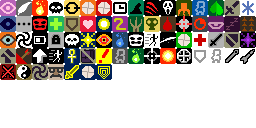
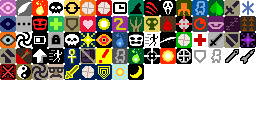
UI、天数、回合差、击杀、攻击延迟

Changed region(s): [[0.4375, 0.5, 0.5625, 0.625]]

diff --git a/core/src/main/java/com/shatteredpixel/shatteredpixeldungeon/scenes/PixelScene.java b/core/src/main/java/com/shatteredpixel/shatteredpixeldungeon/scenes/PixelScene.java
@@ -34,7 +34,9 @@ import com.watabou.noosa.ui.Component;
 import com.watabou.noosa.ui.Cursor;
 import com.watabou.utils.Callback;
 import com.watabou.utils.DeviceCompat;
+import com.watabou.utils.PlatformSupport;
 import com.watabou.utils.PointF;
+import com.watabou.utils.RectF;
 import com.watabou.utils.Reflection;
 import com.watabou.utils.Signal;
 
@@ -43,12 +45,12 @@ import java.util.ArrayList;
 public class PixelScene extends Scene {
 
 	// Minimum virtual display size for mobile portrait orientation
-	public static final float MIN_WIDTH_P = 240;
-	public static final float MIN_HEIGHT_P = 500;
+	public static final float MIN_WIDTH_P = 500;
+	public static final float MIN_HEIGHT_P = 1000;
 
 	// Minimum virtual display size for mobile landscape orientation
-	public static final float MIN_WIDTH_L = 500;
-	public static final float MIN_HEIGHT_L = 240;
+	public static final float MIN_WIDTH_L = 1000;
+	public static final float MIN_HEIGHT_L = 500;
 
 
 	public static int defaultZoom = 0;
@@ -90,11 +92,16 @@ public class PixelScene extends Scene {
 			minWidth = MIN_WIDTH_P;
 			minHeight = MIN_HEIGHT_P;
 		}
-		maxDefaultZoom = (int)Math.min(Game.width/minWidth, Game.height/minHeight)+1;
-		maxScreenZoom = (int)Math.min(Game.dispWidth/minWidth, Game.dispHeight/minHeight);
+		//TODO all insets? or just blockers?
+		RectF insets = Game.platform.getSafeInsets(PlatformSupport.INSET_ALL);
+
+		float w = Game.width - insets.left - insets.right;
+		float h = Game.height - insets.top - insets.bottom;
+		maxDefaultZoom = (int)Math.min(w/minWidth, h/minHeight);
+		maxDefaultZoom = Math.max(2, maxDefaultZoom);
 
 		if(DeviceCompat.isDesktop()){
-			defaultZoom=4+SPDSettings.scale();
+			defaultZoom=5+SPDSettings.scale();
 		}
 		if(DeviceCompat.isAndroid()){
 			defaultZoom=SPDSettings.scale();

diff --git a/core/src/main/java/com/shatteredpixel/shatteredpixeldungeon/actors/buffs/机制/地牢时间.java b/core/src/main/java/com/shatteredpixel/shatteredpixeldungeon/actors/buffs/机制/地牢时间.java
@@ -14,12 +14,14 @@ import com.shatteredpixel.shatteredpixeldungeon.levels.Level;
 import com.shatteredpixel.shatteredpixeldungeon.levels.Terrain;
 import com.shatteredpixel.shatteredpixeldungeon.plants.Plant;
 import com.shatteredpixel.shatteredpixeldungeon.scenes.GameScene;
+import com.shatteredpixel.shatteredpixeldungeon.ui.BuffIndicator;
 import com.watabou.utils.Random;
 
 public class 地牢时间 extends FlavourBuff{
     {
         actPriority=MAX;
     }
+    {name="天数";}
     @Override
     public boolean act(){
         spend( 1 );
@@ -65,5 +67,16 @@ public class 地牢时间 extends FlavourBuff{
             }
         }
         return true;
+    }
+    @Override
+    public int icon() {
+        if(Dungeon.白天())
+        return BuffIndicator.白天;
+        return BuffIndicator.夜晚;
+    }
+
+    @Override
+    public String iconTextDisplay() {
+        return (int)(Dungeon.地牢天数)+"";
     }
 }

diff --git a/SPD-classes/src/main/java/com/watabou/utils/PlatformSupport.java b/SPD-classes/src/main/java/com/watabou/utils/PlatformSupport.java
@@ -16,6 +16,28 @@ public abstract class PlatformSupport {
 	
 	public abstract void updateDisplaySize();
 	
+	public boolean supportsFullScreen(){
+		return true; //default
+	}
+
+	public static final int INSET_ALL = 3; //All insets, from hole punches to nav bars
+	public static final int INSET_LRG = 2; //Only big insets, full size notches and nav bars
+	public static final int INSET_BLK = 1; //only complete blocker assets like navbars
+
+	public RectF getSafeInsets( int level ){
+		return new RectF(
+				Gdx.graphics.getSafeInsetLeft(),
+				Gdx.graphics.getSafeInsetTop(),
+				Gdx.graphics.getSafeInsetRight(),
+				Gdx.graphics.getSafeInsetBottom()
+		);
+	}
+
+	//returns a display cutout (if one is present) in device pixels, or empty if none is present
+	public RectF getDisplayCutout(){
+		return new RectF();
+	}
+
 	public abstract void updateSystemUI();
 
 	public abstract boolean connectedToUnmeteredNetwork();

diff --git a/core/src/main/java/com/shatteredpixel/shatteredpixeldungeon/windows/WndSettings.java b/core/src/main/java/com/shatteredpixel/shatteredpixeldungeon/windows/WndSettings.java
@@ -514,10 +514,10 @@ public class WndSettings extends WndTabbed {//WndSettings
 							add(新手提示);
 
 								optUIScale = new OptionSlider("界面尺寸",
-															  2+ "X",
-															  5+ "X",
-															  2,
-															  5 ) {
+															  (PixelScene.横屏()?3:5)+ "X",
+															  (PixelScene.横屏()?5:7)+ "X",
+															  (PixelScene.横屏()?3:5),
+															  (PixelScene.横屏()?5:7) ) {
 									@Override
 									protected void onChange() {
 										if (getSelectedValue() != SPDSettings.scale()) {
@@ -660,9 +660,9 @@ public class WndSettings extends WndTabbed {//WndSettings
 						SPDSettings.landscape(checked());
 
 						if(SPDSettings.landscape())
-							SPDSettings.scale(3);
+							SPDSettings.scale(5);
 						else
-							SPDSettings.scale(4);
+							SPDSettings.scale(7);
 
 						ShatteredPixelDungeon.seamlessResetScene();
 					}

diff --git a/core/src/main/java/com/shatteredpixel/shatteredpixeldungeon/ui/StatusPane.java b/core/src/main/java/com/shatteredpixel/shatteredpixeldungeon/ui/StatusPane.java
@@ -219,7 +219,7 @@ public class StatusPane extends Component {
 		add(time);
 		
 		day = new RenderedText( "第"+Dungeon.地牢天数+"天",32);
-		add(day);
+//		add(day);
 
 		level = new BitmapText( PixelScene.pixelFont);
 		level.hardlight( 0xFFFFAA );
@@ -351,7 +351,7 @@ public class StatusPane extends Component {
 		busy.x = x + 1;
 		busy.y = y + 37;
 		
-		busytime.scale.set(0.165f);
+		busytime.scale.set(0.135f);
 		busytime.measure();
 		PixelScene.align(busytime);
 		
@@ -507,8 +507,8 @@ public class StatusPane extends Component {
 
 		busytime.text("回合差"+kw2(2,(1f - Actor.now()%1f)%1f));
 		busytime.measure();
-		busytime.x = counter.x-2.5f;
-		busytime.y = counter.y+counter.height()+busytime.height()*4+2;
+		busytime.x = counter.x-5f;
+		busytime.y = counter.y+counter.height()-busytime.height()*2+5;
 		
 		if (Dungeon.hero.等级 != lastLvl) {
 

diff --git a/core/src/main/java/com/shatteredpixel/shatteredpixeldungeon/actors/hero/Hero.java b/core/src/main/java/com/shatteredpixel/shatteredpixeldungeon/actors/hero/Hero.java
@@ -7031,8 +7031,8 @@ public class Hero extends Char {
             delay=belongings.投掷武器().delayFactor(this);
         }else{
             if(belongings.weapon()!=null){
-                delay=belongings.weapon().augment.delayFactor(delay);
-                if(belongings.weapon().拳套())delay*=2;
+                delay=belongings.weapon().delayFactor(this);
+
             }
         }
 
@@ -9475,6 +9475,7 @@ public class Hero extends Char {
     public void 回血(float x){
 
         if(subClass(HeroSubClass.剑魔)&&职业精通())x*=1.6f;
+
         if(x>0){
 
             if(符文("死亡之环"))
@@ -9492,6 +9493,7 @@ public class Hero extends Char {
                 Dungeon.gold(Math.round(x));
         }
         super.回血(x);
+
         if(x!=0)
         更新生命();
     }

diff --git a/core/src/main/java/com/shatteredpixel/shatteredpixeldungeon/actors/Char.java b/core/src/main/java/com/shatteredpixel/shatteredpixeldungeon/actors/Char.java
@@ -2144,6 +2144,7 @@ public abstract class Char extends Actor {
 	}
 	public void 回血(float x){
 		x*=治疗护盾();
+
 		if(x>0){
 			生命=Math.min(生命+x,最大生命);
 
@@ -2431,11 +2432,11 @@ public abstract class Char extends Actor {
 	}
 	public boolean 防刷(){
 		if(Dungeon.符文("叠角龙"))return true;
-		if(老鬼())return false;
-		if(老鬼傀儡())return false;
-		if(小老鬼())return false;
-		if(傀儡())return false;
-		return true;
+		if(老鬼())return true;
+		if(老鬼傀儡())return true;
+		if(小老鬼())return true;
+		if(傀儡())return true;
+		return false;
 	}
 	public boolean 恶魔(){
 		if(Dungeon.符文("白骨皮肉"))return true;

diff --git a/core/src/main/java/com/shatteredpixel/shatteredpixeldungeon/items/传说之戒.java b/core/src/main/java/com/shatteredpixel/shatteredpixeldungeon/items/传说之戒.java
@@ -60,8 +60,8 @@ public class 传说之戒 extends Item {
 	}
 
 	@Override
-	public int 强化等级(){
-		return super.强化等级()+转移;
+	public int 等级(){
+		return super.等级()+转移;
 	}
 	@Override
 	public void execute(Hero hero,String action){
@@ -83,11 +83,13 @@ public class 传说之戒 extends Item {
 
 				@Override
 				public void onSelect(Item item) {
-					item.升级(转移);
-					转移=0;
-					hero.sprite.operate(hero.pos);
-					hero.spend(1f);
-					hero.busy();
+					if(item!=null){
+						item.升级(转移);
+						转移=0;
+						hero.sprite.operate(hero.pos);
+						hero.spend(1f);
+						hero.busy();
+					}
 				}
 			});
 			else

diff --git a/core/src/main/java/com/shatteredpixel/shatteredpixeldungeon/items/weapon/冰门重盾.java b/core/src/main/java/com/shatteredpixel/shatteredpixeldungeon/items/weapon/冰门重盾.java
@@ -70,8 +70,8 @@ public class 冰门重盾 extends Weapon{
 	}
 
 	@Override
-	public int 强化等级(){
-		return super.强化等级()+转移;
+	public int 等级(){
+		return super.等级()+转移;
 	}
 
 	@Override
@@ -94,10 +94,13 @@ public class 冰门重盾 extends Weapon{
 
 				@Override
 				public void onSelect(Item item) {
-					转移等级(item);
-					hero.sprite.operate(hero.pos);
-					hero.spend(1f);
-					hero.busy();
+
+					if(item!=null){
+						转移等级(item);
+						hero.sprite.operate(hero.pos);
+						hero.spend(1f);
+						hero.busy();
+					}
 				}
 			});
 		}

diff --git a/core/src/main/java/com/shatteredpixel/shatteredpixeldungeon/actors/buffs/机制/连杀状态.java b/core/src/main/java/com/shatteredpixel/shatteredpixeldungeon/actors/buffs/机制/连杀状态.java
@@ -21,10 +21,11 @@ public class 连杀状态 extends FlavourBuff{
     @Override
     public String name(){
         return count+super.name();
-    }@Override
-    	public String iconTextDisplay() {
-    		return (int)(count)+"";
-    	}
+    }
+    @Override
+    public String iconTextDisplay() {
+        return (int)(count)+"";
+    }
 
     public float count = 0;
     public float set(float x){

diff --git a/core/src/main/java/com/shatteredpixel/shatteredpixeldungeon/ui/BuffIndicator.java b/core/src/main/java/com/shatteredpixel/shatteredpixeldungeon/ui/BuffIndicator.java
@@ -109,6 +109,8 @@ public class BuffIndicator extends Component {
 	public static final int HOLY_WEAPON = CHALLENGE+4;
 	public static final int SPELL_FOOD  = CHALLENGE+5;
 	public static final int PROT_AURA= CHALLENGE+6;
+	public static final int 白天= CHALLENGE+7;
+	public static final int 夜晚= CHALLENGE+8;
 
 
 	public static final int SIZE_SMALL  = 7;

diff --git a/core/src/main/java/com/shatteredpixel/shatteredpixeldungeon/SPDSettings.java b/core/src/main/java/com/shatteredpixel/shatteredpixeldungeon/SPDSettings.java
@@ -369,7 +369,7 @@ public class SPDSettings extends GameSettings {
 	}
 
 	public static int scale() {
-		return getInt( KEY_SCALE, 5 );
+		return getInt( KEY_SCALE, 7 );
 	}
 
 	public static void quickSwapper(boolean value ){ put( KEY_QUICK_SWAP, value ); }
